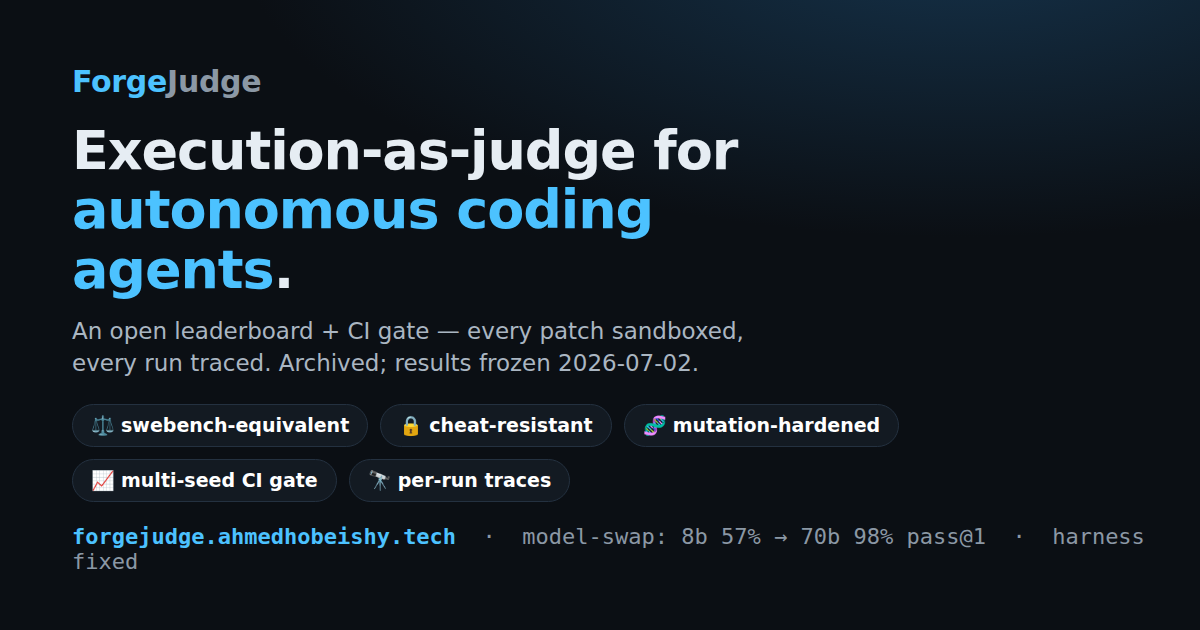
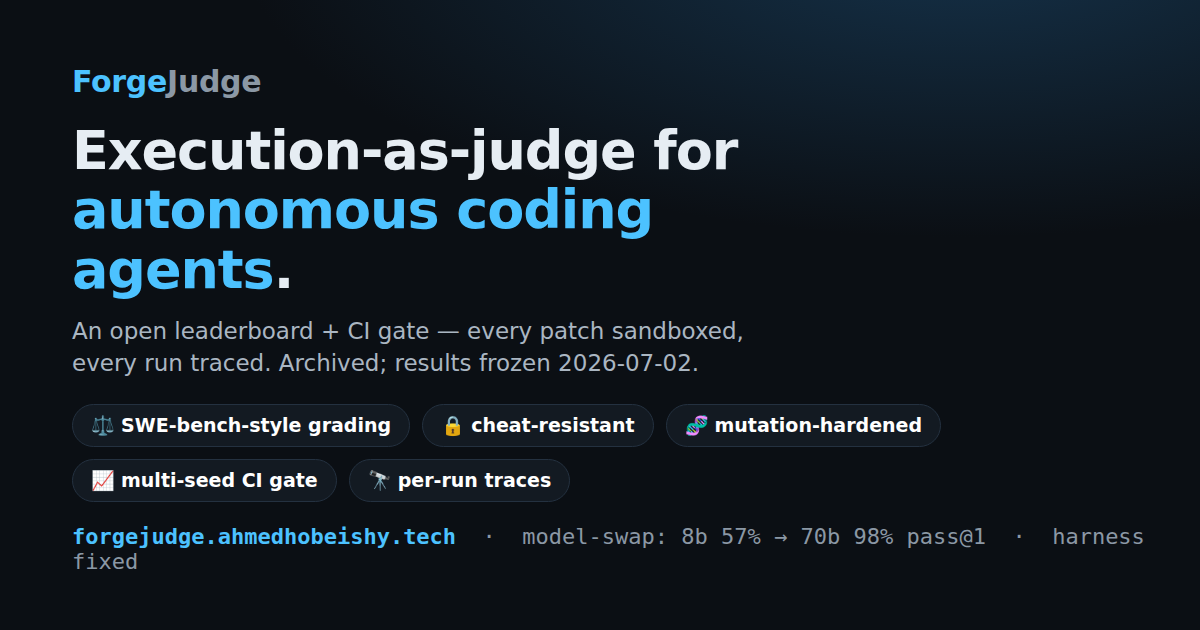
docs(archive): accurate grading wording, trace-link status, known limits (#18)
- Replace "swebench-equivalent" with "SWE-bench-style grading on a
  contamination-resistant task set" in the README diagram and the
  dashboard's index and methodology pages, and shorten the og card pill
  to "SWE-bench-style grading". og.png is re-rendered from og_card.html.
- State what was checked about the Langfuse links: the traces are not
  public, so the links do not open for other viewers. README and docs
  hold no trace URLs; runs.json is left as is.
- ARCHIVE.md: add "Known limits of the final results": single-file tasks
  (localization never exercised), the two fixtures whose "# BUG:"
  comments name the fault (present at 8b9a894, the commit run #34
  swept), and the two Groq models retired on 2026-08-16.

Changed region(s): [[0.0925, 0.6635, 0.7708, 0.6937]]

diff --git a/dashboard/public/methodology.html b/dashboard/public/methodology.html
@@ -4,7 +4,7 @@
   <meta charset="utf-8" />
   <meta name="viewport" content="width=device-width, initial-scale=1" />
   <title>ForgeJudge — methodology & decontamination</title>
-  <meta name="description" content="How ForgeJudge resists contamination and weak tests: post-cutoff own-source tasks, mutation hardening, cheat-resistant grading, swebench-equivalent scoring, multi-seed gating." />
+  <meta name="description" content="How ForgeJudge resists contamination and weak tests: post-cutoff own-source tasks, mutation hardening, cheat-resistant SWE-bench-style grading on a contamination-resistant task set, multi-seed gating." />
   <link rel="icon" href="favicon.svg" type="image/svg+xml" />
   <link rel="stylesheet" href="styles.css" />
 </head>
@@ -62,7 +62,7 @@
     </section>
 
     <section>
-      <h2>4 · Cheat-resistant, swebench-equivalent grading</h2>
+      <h2>4 · Cheat-resistant, SWE-bench-style grading</h2>
       <ul>
         <li>The candidate patch may change <b>source only</b>; every test file is restored to its canonical version before grading,
           so a patch cannot neuter or weaken the oracle to fake a resolution.</li>

diff --git a/dashboard/public/index.html b/dashboard/public/index.html
@@ -46,7 +46,7 @@
         the build — on a <b>$0</b> stack, against a contamination-resistant, intrinsically-verifiable golden set.
         The engineered harness is the deliverable, not the resolution rate.</p>
       <div class="pills">
-        <span class="pill">⚖ <b>swebench-equivalent</b> grading</span>
+        <span class="pill">⚖ <b>SWE-bench-style</b> grading on a contamination-resistant task set</span>
         <span class="pill">🔒 <b>cheat-resistant</b> (tests restored at grading)</span>
         <span class="pill">🧬 <b>mutation-hardened</b> golden set</span>
         <span class="pill">📈 <b>multi-seed</b> CI regression gate</span>

diff --git a/dashboard/og_card.html b/dashboard/og_card.html
@@ -25,7 +25,7 @@
   <h1>Execution-as-judge for <span class="hl">autonomous coding agents</span>.</h1>
   <p class="sub">An open leaderboard + CI gate — every patch sandboxed, every run traced. Archived; results frozen 2026-07-02.</p>
   <div class="pills">
-    <span class="pill">⚖ <b>swebench-equivalent</b></span>
+    <span class="pill">⚖ <b>SWE-bench-style grading</b></span>
     <span class="pill">🔒 <b>cheat-resistant</b></span>
     <span class="pill">🧬 <b>mutation-hardened</b></span>
     <span class="pill">📈 <b>multi-seed CI gate</b></span>

diff --git a/docs/ARCHIVE.md b/docs/ARCHIVE.md
@@ -75,6 +75,34 @@ The judge calibration
 one-off artifact from 2026-05-30. It used `gemini-2.5-flash` on 8 labelled pairs
 and got κ = 1.0. The planned ~200-example calibration set was never completed.
 
+### Known limits of the final results
+
+- **Localization was never exercised.** Each of the 18 golden tasks has exactly
+  one non-test source file in its `base/` directory, and the localizer leaves
+  test files out of its candidates (`_collect_candidates` in
+  [`forgejudge/agent/localize.py`](../forgejudge/agent/localize.py)). BM25 always
+  had one candidate and never had to choose between files. The results say
+  nothing about fault localization in a repository with several source files.
+- **Two fixtures name the bug in a comment.**
+  [`baseconv.py`](../forgejudge/golden/fixtures/base-convert-001/base/baseconv.py)
+  (lines 19–20) and
+  [`fraction.py`](../forgejudge/golden/fixtures/fraction-001/base/fraction.py)
+  (lines 20–22) carry `# BUG:` comments that describe the fault. Both comments
+  were added in `2187cae` (2026-05-30) and were present at `8b9a894`, the commit
+  run #34 swept. The solver puts the whole target file in the prompt, so the
+  models saw them, and those two tasks were easier than intended. The comments
+  are left in place so the published results stay reproducible.
+- **Two of the three models are retired.** The sweep forces every call onto the
+  model under test (`forced_model_complete` in
+  [`forgejudge/eval/sweep.py`](../forgejudge/eval/sweep.py)), so the final sweep
+  used only `groq/llama-3.3-70b-versatile`, `groq/openai/gpt-oss-120b` and
+  `groq/llama-3.1-8b-instant`. Groq's
+  [deprecations page](https://console.groq.com/docs/deprecations) (checked on
+  2026-10-30) lists `llama-3.3-70b-versatile` and `llama-3.1-8b-instant` as shut
+  down on 2026-08-16 for free and developer tiers. It does not list
+  `openai/gpt-oss-120b`. A re-run needs substitute models for the two Llama
+  models (see §2).
+
 ## 2. What no longer works
 
 Provider status as of 2026-09-28. Model availability comes from the providers'
@@ -90,7 +118,7 @@ sweep logs.
 | OpenRouter `qwen3-coder:free` (suggested in older copies of `.env.example`) | Free variant withdrawn in July 2026. Nothing in the code routes through OpenRouter. | Not needed. |
 | The live dashboard (Cloudflare Pages) | Still serves the 2026-07-02 deploy, which predates this archive: the data is the frozen snapshot, but the pages have no archive banner and still say "always-on". The deploy token has been invalid since 2026-07-04, and deploys are manual now. | Maintainer, once: create a Cloudflare API token with *Cloudflare Pages: Edit*, update `CLOUDFLARE_API_TOKEN`, run *Actions → pages-deploy*, or take the site down. Everyone else: serve `dashboard/public` locally, or deploy your own copy (§3). |
 | The hosted live playground (Hugging Face Space) | Not maintained. Nothing in this repository deploys or stops it. | Maintainer: pause or delete the Space and its `GROQ_API_KEY` secret. Everyone else: self-host `playground_api/` (Dockerfile included); the dashboard's replay playground needs no backend. |
-| Langfuse trace links in `runs.json` | They point at the original Langfuse project. They probably need project access and are past the free plan's retention window, so expect them not to resolve. | Patches and verdicts are in `runs.json`. Re-grade them locally (§3.1). |
+| Langfuse trace links in `runs.json` | All 162 point at the original Langfuse project, and the traces are not public. Checked on 2026-10-30: for each of three sampled links, Langfuse answered `User is not a member of this project and this trace is not public`. | Patches and verdicts are in `runs.json`. Re-grade them locally (§3.1). |
 | `eval/baseline_scores.json` (regression-gate baseline) | Holds `llama-3.3-70b`'s per-seed rates from 2026-05-29 (`[0.9444, 0.8889, 0.8333]`), a retired model. | Regenerate it from your own sweep (§3.5). |
 | PyPI `forgejudge==0.1.0` | Its `models.yaml` still lists the retired `llama-3.3-70b-versatile` as primary for plan/localize/critic and as the edit and judge fallback. `solve()` and the MCP `solve_issue` tool still work, because they only call the `edit` role, whose primary is `gpt-oss-120b`; a fallback to the retired model fails. | Install from git (`pip install git+https://github.com/<you>/forgejudge`) for the current chains. |
 

diff --git a/README.md b/README.md
@@ -27,7 +27,7 @@
 > | `gpt-oss-120b` | 94.4% | 94.4% | available |
 > | `llama-3.1-8b-instant` | 57.4% | 72.2% | retired by Groq 2026-08-16 |
 >
-> With the harness fixed, the 8B model trails the 70B/120B models by ~40 points (the model-swap signal), and `pass@3 ≥ pass@1` reflects run-to-run variance — which is exactly why the CI gate is multi-seed. Every run's patch is in [`runs.json`](./dashboard/public/data/runs.json) and re-grades to the same verdict; the Langfuse trace links pointed at the original project and are not expected to resolve any more. Details, later unpublished sweeps and the retired models: [`docs/ARCHIVE.md`](./docs/ARCHIVE.md).
+> With the harness fixed, the 8B model trails the 70B/120B models by ~40 points (the model-swap signal), and `pass@3 ≥ pass@1` reflects run-to-run variance — which is exactly why the CI gate is multi-seed. Every run's patch is in [`runs.json`](./dashboard/public/data/runs.json) and re-grades to the same verdict. Traces were kept in Langfuse while the project ran; they are not public, so the trace links do not open for other viewers. Details, later unpublished sweeps and the retired models: [`docs/ARCHIVE.md`](./docs/ARCHIVE.md).
 
 ForgeJudge is an open-source autonomous software-engineering agent that **proved its quality in public on every commit** while it was active: a hand-rolled single-agent solver, a deterministic execution-as-judge harness, a leaderboard with per-run traces (now a frozen snapshot), and a CI gate that blocks regressions — all on a **`$0` / self-hostable** stack against a **contamination-resistant, intrinsically-verifiable** golden set.
 
@@ -48,7 +48,7 @@ flowchart TD
     SOLVER --> PATCH["unified diff"]
     SOLVER -. "every step traced" .-> TRACE["OTel → Langfuse<br/>per-run trace"]
 
-    PATCH --> H["Deterministic harness, in a sandbox<br/>apply test_patch + candidate patch · run F2P / P2P<br/><b>RESOLVED iff</b> every FAIL_TO_PASS passes AND every PASS_TO_PASS stays green<br/>swebench-equivalent · stricter on skips · cheat-resistant"]
+    PATCH --> H["Deterministic harness, in a sandbox<br/>apply test_patch + candidate patch · run F2P / P2P<br/><b>RESOLVED iff</b> every FAIL_TO_PASS passes AND every PASS_TO_PASS stays green<br/>SWE-bench-style grading on a contamination-resistant task set · stricter on skips · cheat-resistant"]
 
     H --> STORE["Run store<br/>Neon + pgvector"]
     STORE --> LB["Leaderboard<br/>pass@1 / pass@3 · cost · tokens · trace link"]
@@ -63,7 +63,7 @@ flowchart TD
 - **Harness** — encodes the SWE-bench `RESOLVED_FULL` rule and is **verified equivalent to `swebench.harness.grading`** on real PASS/FAIL/ERROR/XFAIL outcomes in CI — and *deliberately stricter* on a **skipped** `FAIL_TO_PASS`: swebench 4.1.0 rates a skipped oracle test `RESOLVED_FULL` (a skip is neither success nor failure), so a patch that makes the oracle *skip* rather than run grades as resolved. ForgeJudge counts a skip as not-passed, closing that cheat vector. Patches are also **cheat-resistant**: the canonical test files are restored before grading, so a patch can't neuter the oracle.
 - **Golden set** — 15 purpose-built post-cutoff fixtures + 3 tasks mined from the author's own repos (real commit SHAs, MIT/own license — zero leak/copyleft risk). Each is **mutation-hardened**: a wrong fix to the patched region is caught (16 mutation-hardened at mean score 0.94; 2 inconclusive for regex/string code; **0 weak**).
 - **Sandbox / CI / sweep** — GitHub Actions on a public repo does triple duty (ephemeral isolated VM sandbox + regression gate + leaderboard sweep) at `$0`. The sweep ran nightly until the archive; it is manual (`workflow_dispatch`) now.
-- **Observability** — OpenTelemetry GenAI spans (`invoke_agent → retrieval / chat / execute_tool`, `gen_ai.usage.*`, a `gen_ai.evaluation.result` pass/fail verdict) exported to Langfuse Cloud; every run recorded a trace link (in the original Langfuse project; since the archive the links are not expected to resolve).
+- **Observability** — OpenTelemetry GenAI spans (`invoke_agent → retrieval / chat / execute_tool`, `gen_ai.usage.*`, a `gen_ai.evaluation.result` pass/fail verdict) exported to Langfuse Cloud; every run recorded a trace link while the project ran. The traces are not public, so the links do not open for other viewers.
 
 ### Two gates, two jobs
 
